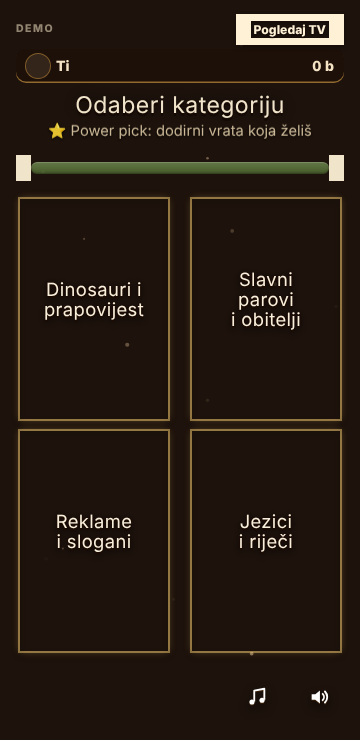
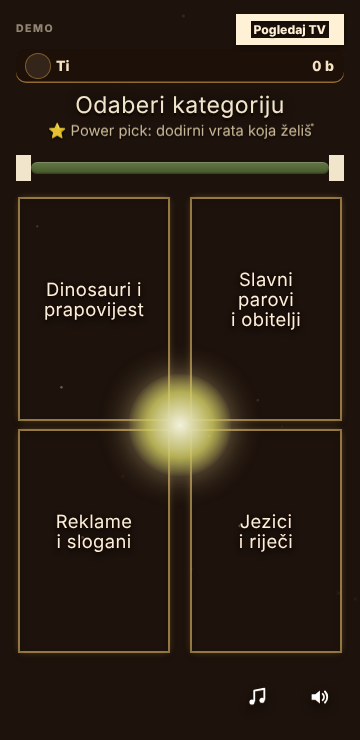
izvor: Power pick medaljon svjetliji, zlatni oreol, v44
Claude-Session: https://claude.ai/code/session_01Hox85WhNuW9YNgDCoc2eez

Changed region(s): [[0.3361, 0.4973, 0.6722, 0.6527]]

diff --git a/web/site/index.html b/web/site/index.html
@@ -2,7 +2,7 @@
 <html lang="hr">
 <head>
 <meta charset="utf-8">
-<meta http-equiv="Content-Security-Policy" content="default-src 'self'; script-src 'self' https://unpkg.com/peerjs@1.5.4/dist/peerjs.min.js 'sha256-Zl3tgS/eaxYVVpmxE8tHVTySUQ/d7DDtIubeYm/F9Uo=' 'sha256-V1jjFMU8efcpufHVywuuNdDofTMBuPeT7sDP+FrM64c=' 'sha256-wyvvXqxLAZ3m7/jAoeI3NAIBNFS5G/udmg/sIXlWuQI='; style-src 'self' 'unsafe-inline' https://fonts.googleapis.com; font-src 'self' https://fonts.gstatic.com data:; img-src 'self' data: blob:; media-src 'self' data: blob:; worker-src 'self'; manifest-src 'self'; connect-src 'self' https://0.peerjs.com wss://0.peerjs.com wss://broker.emqx.io:8084 wss://broker.hivemq.com:8884 wss://test.mosquitto.org:8081 https://unpkg.com https://fonts.googleapis.com https://fonts.gstatic.com; object-src 'none'; base-uri 'none'; form-action 'none'; frame-src 'none'">
+<meta http-equiv="Content-Security-Policy" content="default-src 'self'; script-src 'self' https://unpkg.com/peerjs@1.5.4/dist/peerjs.min.js 'sha256-Zl3tgS/eaxYVVpmxE8tHVTySUQ/d7DDtIubeYm/F9Uo=' 'sha256-I+TVg4yhrlsOOpfGfRumuWYNeGE1WwK1MsN3NkERkCk=' 'sha256-wyvvXqxLAZ3m7/jAoeI3NAIBNFS5G/udmg/sIXlWuQI='; style-src 'self' 'unsafe-inline' https://fonts.googleapis.com; font-src 'self' https://fonts.gstatic.com data:; img-src 'self' data: blob:; media-src 'self' data: blob:; worker-src 'self'; manifest-src 'self'; connect-src 'self' https://0.peerjs.com wss://0.peerjs.com wss://broker.emqx.io:8084 wss://broker.hivemq.com:8884 wss://test.mosquitto.org:8081 https://unpkg.com https://fonts.googleapis.com https://fonts.gstatic.com; object-src 'none'; base-uri 'none'; form-action 'none'; frame-src 'none'">
 <meta name="referrer" content="no-referrer">
 <meta name="viewport" content="width=device-width,initial-scale=1,viewport-fit=cover">
 <meta name="theme-color" content="#0a1433">
@@ -2286,10 +2286,18 @@
   /* mali okrugli Power pick na sredini između četiri vrata: ne dodaje visinu, ne prekriva tekst vrata */
   .door-btns { position: relative; }
   .pp-coin { position: absolute; left: 50%; top: 50%; transform: translate(-50%, -50%); z-index: 8; width: 64px; height: 64px; padding: 0; border: 0; border-radius: 50%; cursor: pointer; font-size: 0; color: transparent;
-    background: url("ui/pp-medal.webp") center / contain no-repeat; filter: drop-shadow(0 2px 3px rgba(0, 0, 0, 0.65)) drop-shadow(0 0 7px rgba(240, 198, 110, 0.55)); animation: ppBob 2.2s ease-in-out infinite; -webkit-tap-highlight-color: transparent; }
-  .pp-coin.on { animation: none; transform: translate(-50%, -50%) scale(1.12); filter: drop-shadow(0 2px 3px rgba(0, 0, 0, 0.65)) drop-shadow(0 0 16px rgba(255, 226, 150, 0.95)); }
+    -webkit-appearance: none; appearance: none; opacity: 1; -webkit-tap-highlight-color: transparent;
+    background: url("ui/pp-medal.webp") center / contain no-repeat; filter: brightness(1.12) saturate(1.2) drop-shadow(0 2px 2px rgba(0, 0, 0, 0.6)) drop-shadow(0 0 8px rgba(255, 214, 120, 0.85));
+    animation: ppBob 2.2s ease-in-out infinite; }
+  /* zlatni oreol iza medaljona: jasno daje do znanja da se može dodirnuti */
+  .pp-coin::before { content: ""; position: absolute; inset: -9px; z-index: -1; border-radius: 50%; pointer-events: none;
+    background: radial-gradient(circle, rgba(255, 226, 150, 0.75) 0%, rgba(240, 190, 90, 0.4) 45%, rgba(240, 190, 90, 0) 70%); animation: ppHalo 1.6s ease-in-out infinite alternate; }
+  .pp-coin:active { transform: translate(-50%, -50%) scale(0.94); }
+  .pp-coin.on { animation: none; transform: translate(-50%, -50%) scale(1.12); filter: brightness(1.25) saturate(1.25) drop-shadow(0 2px 2px rgba(0, 0, 0, 0.6)) drop-shadow(0 0 16px rgba(255, 230, 160, 1)); }
+  .pp-coin.on::before { inset: -14px; animation: none; opacity: 1; background: radial-gradient(circle, rgba(255, 240, 190, 0.95) 0%, rgba(255, 205, 110, 0.55) 45%, rgba(255, 205, 110, 0) 72%); }
   @keyframes ppBob { 0%, 100% { transform: translate(-50%, -50%) scale(1); } 50% { transform: translate(-50%, -50%) scale(1.07); } }
-  @media (prefers-reduced-motion: reduce) { .pp-coin { animation: none; } }
+  @keyframes ppHalo { from { opacity: 0.55; } to { opacity: 1; } }
+  @media (prefers-reduced-motion: reduce) { .pp-coin, .pp-coin::before { animation: none; } }
   #ambient { position: fixed; inset: 0; width: 100%; height: 100%; z-index: 0; pointer-events: none; }
   html, body { overscroll-behavior: none; overscroll-behavior-y: none; }
   /* stranica se nikad ne skrola ni ne povlači; dekorativne animacije izvan ekrana ne produljuju stranicu */
@@ -6716,7 +6724,7 @@ function createGame(o) {
           '<div class="home-sec"><button class="btn ghost" id="host">Otvori na TV-u</button><button class="btn ghost" id="join">Pridruži se igri</button></div>' +
           '<div class="home-try"><span class="home-sep">Isprobaj igru</span><button class="home-link" id="demo">Igraj protiv botova</button>' + install + '</div>' +
         '</div>' +
-        '<div class="home-foot">' + status + '<span class="home-ver">v43</span></div>' +
+        '<div class="home-foot">' + status + '<span class="home-ver">v44</span></div>' +
       '</div>';
     bind('host', startHost); bind('join', () => { mode = 'join'; render(); }); bind('demo', startDemo);
     bind('hostp', () => { hostErr = ''; mode = 'hostform'; render(); });

diff --git a/v3/out.html b/v3/out.html
@@ -2276,10 +2276,18 @@
   /* mali okrugli Power pick na sredini između četiri vrata: ne dodaje visinu, ne prekriva tekst vrata */
   .door-btns { position: relative; }
   .pp-coin { position: absolute; left: 50%; top: 50%; transform: translate(-50%, -50%); z-index: 8; width: 64px; height: 64px; padding: 0; border: 0; border-radius: 50%; cursor: pointer; font-size: 0; color: transparent;
-    background: url("ui/pp-medal.webp") center / contain no-repeat; filter: drop-shadow(0 2px 3px rgba(0, 0, 0, 0.65)) drop-shadow(0 0 7px rgba(240, 198, 110, 0.55)); animation: ppBob 2.2s ease-in-out infinite; -webkit-tap-highlight-color: transparent; }
-  .pp-coin.on { animation: none; transform: translate(-50%, -50%) scale(1.12); filter: drop-shadow(0 2px 3px rgba(0, 0, 0, 0.65)) drop-shadow(0 0 16px rgba(255, 226, 150, 0.95)); }
+    -webkit-appearance: none; appearance: none; opacity: 1; -webkit-tap-highlight-color: transparent;
+    background: url("ui/pp-medal.webp") center / contain no-repeat; filter: brightness(1.12) saturate(1.2) drop-shadow(0 2px 2px rgba(0, 0, 0, 0.6)) drop-shadow(0 0 8px rgba(255, 214, 120, 0.85));
+    animation: ppBob 2.2s ease-in-out infinite; }
+  /* zlatni oreol iza medaljona: jasno daje do znanja da se može dodirnuti */
+  .pp-coin::before { content: ""; position: absolute; inset: -9px; z-index: -1; border-radius: 50%; pointer-events: none;
+    background: radial-gradient(circle, rgba(255, 226, 150, 0.75) 0%, rgba(240, 190, 90, 0.4) 45%, rgba(240, 190, 90, 0) 70%); animation: ppHalo 1.6s ease-in-out infinite alternate; }
+  .pp-coin:active { transform: translate(-50%, -50%) scale(0.94); }
+  .pp-coin.on { animation: none; transform: translate(-50%, -50%) scale(1.12); filter: brightness(1.25) saturate(1.25) drop-shadow(0 2px 2px rgba(0, 0, 0, 0.6)) drop-shadow(0 0 16px rgba(255, 230, 160, 1)); }
+  .pp-coin.on::before { inset: -14px; animation: none; opacity: 1; background: radial-gradient(circle, rgba(255, 240, 190, 0.95) 0%, rgba(255, 205, 110, 0.55) 45%, rgba(255, 205, 110, 0) 72%); }
   @keyframes ppBob { 0%, 100% { transform: translate(-50%, -50%) scale(1); } 50% { transform: translate(-50%, -50%) scale(1.07); } }
-  @media (prefers-reduced-motion: reduce) { .pp-coin { animation: none; } }
+  @keyframes ppHalo { from { opacity: 0.55; } to { opacity: 1; } }
+  @media (prefers-reduced-motion: reduce) { .pp-coin, .pp-coin::before { animation: none; } }
   #ambient { position: fixed; inset: 0; width: 100%; height: 100%; z-index: 0; pointer-events: none; }
   html, body { overscroll-behavior: none; overscroll-behavior-y: none; }
   /* stranica se nikad ne skrola ni ne povlači; dekorativne animacije izvan ekrana ne produljuju stranicu */

diff --git a/v3/shots/out-pick.html b/v3/shots/out-pick.html
@@ -2276,10 +2276,18 @@
   /* mali okrugli Power pick na sredini između četiri vrata: ne dodaje visinu, ne prekriva tekst vrata */
   .door-btns { position: relative; }
   .pp-coin { position: absolute; left: 50%; top: 50%; transform: translate(-50%, -50%); z-index: 8; width: 64px; height: 64px; padding: 0; border: 0; border-radius: 50%; cursor: pointer; font-size: 0; color: transparent;
-    background: url("ui/pp-medal.webp") center / contain no-repeat; filter: drop-shadow(0 2px 3px rgba(0, 0, 0, 0.65)) drop-shadow(0 0 7px rgba(240, 198, 110, 0.55)); animation: ppBob 2.2s ease-in-out infinite; -webkit-tap-highlight-color: transparent; }
-  .pp-coin.on { animation: none; transform: translate(-50%, -50%) scale(1.12); filter: drop-shadow(0 2px 3px rgba(0, 0, 0, 0.65)) drop-shadow(0 0 16px rgba(255, 226, 150, 0.95)); }
+    -webkit-appearance: none; appearance: none; opacity: 1; -webkit-tap-highlight-color: transparent;
+    background: url("ui/pp-medal.webp") center / contain no-repeat; filter: brightness(1.12) saturate(1.2) drop-shadow(0 2px 2px rgba(0, 0, 0, 0.6)) drop-shadow(0 0 8px rgba(255, 214, 120, 0.85));
+    animation: ppBob 2.2s ease-in-out infinite; }
+  /* zlatni oreol iza medaljona: jasno daje do znanja da se može dodirnuti */
+  .pp-coin::before { content: ""; position: absolute; inset: -9px; z-index: -1; border-radius: 50%; pointer-events: none;
+    background: radial-gradient(circle, rgba(255, 226, 150, 0.75) 0%, rgba(240, 190, 90, 0.4) 45%, rgba(240, 190, 90, 0) 70%); animation: ppHalo 1.6s ease-in-out infinite alternate; }
+  .pp-coin:active { transform: translate(-50%, -50%) scale(0.94); }
+  .pp-coin.on { animation: none; transform: translate(-50%, -50%) scale(1.12); filter: brightness(1.25) saturate(1.25) drop-shadow(0 2px 2px rgba(0, 0, 0, 0.6)) drop-shadow(0 0 16px rgba(255, 230, 160, 1)); }
+  .pp-coin.on::before { inset: -14px; animation: none; opacity: 1; background: radial-gradient(circle, rgba(255, 240, 190, 0.95) 0%, rgba(255, 205, 110, 0.55) 45%, rgba(255, 205, 110, 0) 72%); }
   @keyframes ppBob { 0%, 100% { transform: translate(-50%, -50%) scale(1); } 50% { transform: translate(-50%, -50%) scale(1.07); } }
-  @media (prefers-reduced-motion: reduce) { .pp-coin { animation: none; } }
+  @keyframes ppHalo { from { opacity: 0.55; } to { opacity: 1; } }
+  @media (prefers-reduced-motion: reduce) { .pp-coin, .pp-coin::before { animation: none; } }
   #ambient { position: fixed; inset: 0; width: 100%; height: 100%; z-index: 0; pointer-events: none; }
   html, body { overscroll-behavior: none; overscroll-behavior-y: none; }
   /* stranica se nikad ne skrola ni ne povlači; dekorativne animacije izvan ekrana ne produljuju stranicu */

diff --git a/v4/page.html b/v4/page.html
@@ -2275,10 +2275,18 @@
   /* mali okrugli Power pick na sredini između četiri vrata: ne dodaje visinu, ne prekriva tekst vrata */
   .door-btns { position: relative; }
   .pp-coin { position: absolute; left: 50%; top: 50%; transform: translate(-50%, -50%); z-index: 8; width: 64px; height: 64px; padding: 0; border: 0; border-radius: 50%; cursor: pointer; font-size: 0; color: transparent;
-    background: url("ui/pp-medal.webp") center / contain no-repeat; filter: drop-shadow(0 2px 3px rgba(0, 0, 0, 0.65)) drop-shadow(0 0 7px rgba(240, 198, 110, 0.55)); animation: ppBob 2.2s ease-in-out infinite; -webkit-tap-highlight-color: transparent; }
-  .pp-coin.on { animation: none; transform: translate(-50%, -50%) scale(1.12); filter: drop-shadow(0 2px 3px rgba(0, 0, 0, 0.65)) drop-shadow(0 0 16px rgba(255, 226, 150, 0.95)); }
+    -webkit-appearance: none; appearance: none; opacity: 1; -webkit-tap-highlight-color: transparent;
+    background: url("ui/pp-medal.webp") center / contain no-repeat; filter: brightness(1.12) saturate(1.2) drop-shadow(0 2px 2px rgba(0, 0, 0, 0.6)) drop-shadow(0 0 8px rgba(255, 214, 120, 0.85));
+    animation: ppBob 2.2s ease-in-out infinite; }
+  /* zlatni oreol iza medaljona: jasno daje do znanja da se može dodirnuti */
+  .pp-coin::before { content: ""; position: absolute; inset: -9px; z-index: -1; border-radius: 50%; pointer-events: none;
+    background: radial-gradient(circle, rgba(255, 226, 150, 0.75) 0%, rgba(240, 190, 90, 0.4) 45%, rgba(240, 190, 90, 0) 70%); animation: ppHalo 1.6s ease-in-out infinite alternate; }
+  .pp-coin:active { transform: translate(-50%, -50%) scale(0.94); }
+  .pp-coin.on { animation: none; transform: translate(-50%, -50%) scale(1.12); filter: brightness(1.25) saturate(1.25) drop-shadow(0 2px 2px rgba(0, 0, 0, 0.6)) drop-shadow(0 0 16px rgba(255, 230, 160, 1)); }
+  .pp-coin.on::before { inset: -14px; animation: none; opacity: 1; background: radial-gradient(circle, rgba(255, 240, 190, 0.95) 0%, rgba(255, 205, 110, 0.55) 45%, rgba(255, 205, 110, 0) 72%); }
   @keyframes ppBob { 0%, 100% { transform: translate(-50%, -50%) scale(1); } 50% { transform: translate(-50%, -50%) scale(1.07); } }
-  @media (prefers-reduced-motion: reduce) { .pp-coin { animation: none; } }
+  @keyframes ppHalo { from { opacity: 0.55; } to { opacity: 1; } }
+  @media (prefers-reduced-motion: reduce) { .pp-coin, .pp-coin::before { animation: none; } }
   #ambient { position: fixed; inset: 0; width: 100%; height: 100%; z-index: 0; pointer-events: none; }
   html, body { overscroll-behavior: none; overscroll-behavior-y: none; }
   /* stranica se nikad ne skrola ni ne povlači; dekorativne animacije izvan ekrana ne produljuju stranicu */

diff --git a/web/body.html b/web/body.html
@@ -2275,10 +2275,18 @@
   /* mali okrugli Power pick na sredini između četiri vrata: ne dodaje visinu, ne prekriva tekst vrata */
   .door-btns { position: relative; }
   .pp-coin { position: absolute; left: 50%; top: 50%; transform: translate(-50%, -50%); z-index: 8; width: 64px; height: 64px; padding: 0; border: 0; border-radius: 50%; cursor: pointer; font-size: 0; color: transparent;
-    background: url("ui/pp-medal.webp") center / contain no-repeat; filter: drop-shadow(0 2px 3px rgba(0, 0, 0, 0.65)) drop-shadow(0 0 7px rgba(240, 198, 110, 0.55)); animation: ppBob 2.2s ease-in-out infinite; -webkit-tap-highlight-color: transparent; }
-  .pp-coin.on { animation: none; transform: translate(-50%, -50%) scale(1.12); filter: drop-shadow(0 2px 3px rgba(0, 0, 0, 0.65)) drop-shadow(0 0 16px rgba(255, 226, 150, 0.95)); }
+    -webkit-appearance: none; appearance: none; opacity: 1; -webkit-tap-highlight-color: transparent;
+    background: url("ui/pp-medal.webp") center / contain no-repeat; filter: brightness(1.12) saturate(1.2) drop-shadow(0 2px 2px rgba(0, 0, 0, 0.6)) drop-shadow(0 0 8px rgba(255, 214, 120, 0.85));
+    animation: ppBob 2.2s ease-in-out infinite; }
+  /* zlatni oreol iza medaljona: jasno daje do znanja da se može dodirnuti */
+  .pp-coin::before { content: ""; position: absolute; inset: -9px; z-index: -1; border-radius: 50%; pointer-events: none;
+    background: radial-gradient(circle, rgba(255, 226, 150, 0.75) 0%, rgba(240, 190, 90, 0.4) 45%, rgba(240, 190, 90, 0) 70%); animation: ppHalo 1.6s ease-in-out infinite alternate; }
+  .pp-coin:active { transform: translate(-50%, -50%) scale(0.94); }
+  .pp-coin.on { animation: none; transform: translate(-50%, -50%) scale(1.12); filter: brightness(1.25) saturate(1.25) drop-shadow(0 2px 2px rgba(0, 0, 0, 0.6)) drop-shadow(0 0 16px rgba(255, 230, 160, 1)); }
+  .pp-coin.on::before { inset: -14px; animation: none; opacity: 1; background: radial-gradient(circle, rgba(255, 240, 190, 0.95) 0%, rgba(255, 205, 110, 0.55) 45%, rgba(255, 205, 110, 0) 72%); }
   @keyframes ppBob { 0%, 100% { transform: translate(-50%, -50%) scale(1); } 50% { transform: translate(-50%, -50%) scale(1.07); } }
-  @media (prefers-reduced-motion: reduce) { .pp-coin { animation: none; } }
+  @keyframes ppHalo { from { opacity: 0.55; } to { opacity: 1; } }
+  @media (prefers-reduced-motion: reduce) { .pp-coin, .pp-coin::before { animation: none; } }
   #ambient { position: fixed; inset: 0; width: 100%; height: 100%; z-index: 0; pointer-events: none; }
   html, body { overscroll-behavior: none; overscroll-behavior-y: none; }
   /* stranica se nikad ne skrola ni ne povlači; dekorativne animacije izvan ekrana ne produljuju stranicu */

diff --git a/v4/pp.css b/v4/pp.css
@@ -15,7 +15,15 @@
   /* mali okrugli Power pick na sredini između četiri vrata: ne dodaje visinu, ne prekriva tekst vrata */
   .door-btns { position: relative; }
   .pp-coin { position: absolute; left: 50%; top: 50%; transform: translate(-50%, -50%); z-index: 8; width: 64px; height: 64px; padding: 0; border: 0; border-radius: 50%; cursor: pointer; font-size: 0; color: transparent;
-    background: url("ui/pp-medal.webp") center / contain no-repeat; filter: drop-shadow(0 2px 3px rgba(0, 0, 0, 0.65)) drop-shadow(0 0 7px rgba(240, 198, 110, 0.55)); animation: ppBob 2.2s ease-in-out infinite; -webkit-tap-highlight-color: transparent; }
-  .pp-coin.on { animation: none; transform: translate(-50%, -50%) scale(1.12); filter: drop-shadow(0 2px 3px rgba(0, 0, 0, 0.65)) drop-shadow(0 0 16px rgba(255, 226, 150, 0.95)); }
+    -webkit-appearance: none; appearance: none; opacity: 1; -webkit-tap-highlight-color: transparent;
+    background: url("ui/pp-medal.webp") center / contain no-repeat; filter: brightness(1.12) saturate(1.2) drop-shadow(0 2px 2px rgba(0, 0, 0, 0.6)) drop-shadow(0 0 8px rgba(255, 214, 120, 0.85));
+    animation: ppBob 2.2s ease-in-out infinite; }
+  /* zlatni oreol iza medaljona: jasno daje do znanja da se može dodirnuti */
+  .pp-coin::before { content: ""; position: absolute; inset: -9px; z-index: -1; border-radius: 50%; pointer-events: none;
+    background: radial-gradient(circle, rgba(255, 226, 150, 0.75) 0%, rgba(240, 190, 90, 0.4) 45%, rgba(240, 190, 90, 0) 70%); animation: ppHalo 1.6s ease-in-out infinite alternate; }
+  .pp-coin:active { transform: translate(-50%, -50%) scale(0.94); }
+  .pp-coin.on { animation: none; transform: translate(-50%, -50%) scale(1.12); filter: brightness(1.25) saturate(1.25) drop-shadow(0 2px 2px rgba(0, 0, 0, 0.6)) drop-shadow(0 0 16px rgba(255, 230, 160, 1)); }
+  .pp-coin.on::before { inset: -14px; animation: none; opacity: 1; background: radial-gradient(circle, rgba(255, 240, 190, 0.95) 0%, rgba(255, 205, 110, 0.55) 45%, rgba(255, 205, 110, 0) 72%); }
   @keyframes ppBob { 0%, 100% { transform: translate(-50%, -50%) scale(1); } 50% { transform: translate(-50%, -50%) scale(1.07); } }
-  @media (prefers-reduced-motion: reduce) { .pp-coin { animation: none; } }
+  @keyframes ppHalo { from { opacity: 0.55; } to { opacity: 1; } }
+  @media (prefers-reduced-motion: reduce) { .pp-coin, .pp-coin::before { animation: none; } }

diff --git a/v3/pp-icon-shot.js b/v3/pp-icon-shot.js
@@ -21,7 +21,7 @@ fs.writeFileSync(TMP, h.replace(a, a + ' window.__t = { game: () => game, S: (v)
       const L = Math.min(...bs.map((r) => r.left)), R = Math.max(...bs.map((r) => r.right)), T = Math.min(...bs.map((r) => r.top)), B = Math.max(...bs.map((r) => r.bottom));
       const cs = getComputedStyle(document.querySelector('.pp-coin')); return { dx: (c.left + c.right) / 2 - (L + R) / 2, dy: (c.top + c.bottom) / 2 - (T + B) / 2, w: c.width, bg: cs.backgroundImage, txt: document.querySelector('.pp-coin').textContent };
     });
-    console.log(JSON.stringify(m));
+    console.log(JSON.stringify(m)); console.log(await page.evaluate(() => { const e = document.querySelector('.pp-coin'); const o = []; for (let x = e; x; x = x.parentElement) { const c = getComputedStyle(x); if (c.opacity !== '1' || c.filter !== 'none' || c.mixBlendMode !== 'normal') o.push((x.id || x.className) + ' op=' + c.opacity + ' f=' + c.filter + ' mb=' + c.mixBlendMode); } return o.join(' | '); }));
     const loaded = await page.evaluate(() => new Promise((r) => { const i = new Image(); i.onload = () => r(i.naturalWidth); i.onerror = () => r(0); i.src = 'ui/pp-medal.webp'; }));
     console.log('slika učitana, širina', loaded);
     await page.screenshot({ path: OUT + '/ppicon-390.png' });

diff --git a/web/site/sw.js b/web/site/sw.js
@@ -1,5 +1,5 @@
 // Mozgalica: uvijek pokušaj mrežu, a bez interneta posluži zadnju spremljenu verziju.
-const CACHE = 'mozgalica-v43';
+const CACHE = 'mozgalica-v44';
 const CORE = ['./', './index.html', './manifest.webmanifest', './icon-192.png', './icon-512.png', './icon.svg', './vendor/qrcode.js'];
 self.addEventListener('install', (e) => {
   e.waitUntil(caches.open(CACHE).then((c) => c.addAll(CORE)).then(() => self.skipWaiting()));

diff --git a/web/assemble.py b/web/assemble.py
@@ -35,7 +35,7 @@ html = ('<!doctype html>\n<html lang="hr">\n<head>\n<meta charset="utf-8">\n'
         '<link rel="icon" href="icon.svg" type="image/svg+xml">\n'
         '<link rel="apple-touch-icon" href="icon-192.png">\n'
         + head_part.rstrip() + '\n</head>\n<body>\n' + rest.rstrip() + '\n' + sw + '</body>\n</html>\n')
-VERSION = 'v43'
+VERSION = 'v44'
 html = html.replace('MOZGALICA', '<span class="lt">Trivia</span><span class="lt">Tavern</span>').replace('<title>Mozgalica</title>', '<title>Trivia Tavern</title>')
 assert html.count('__VER__') == 1
 html = html.replace('__VER__', VERSION)
